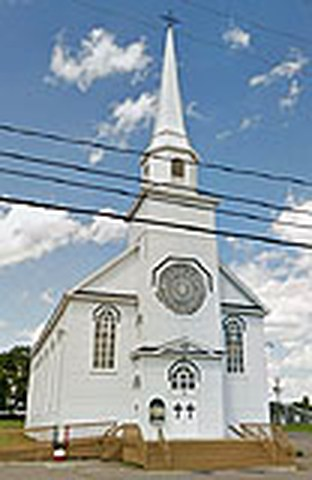
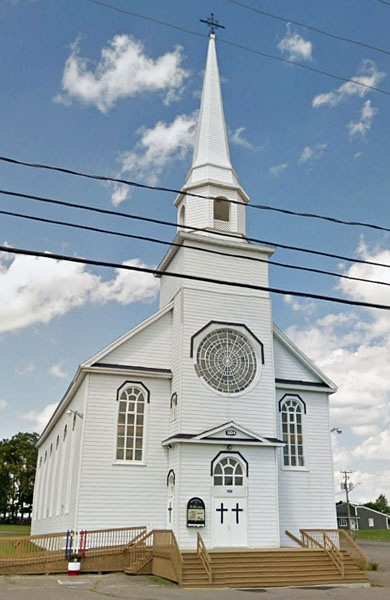
Add files via upload

diff --git a/index.html b/index.html
@@ -3020,18 +3020,18 @@ Object.assign(TR.en,{
 });
 
 const EGLISES=[
- {nom:"Assomption",img:"images/assomption-exterieur.jpg",
-  fr:"L'église de pierre de l'Assomption (1906-1907) et son presbytère sont au cœur de la vie de l'unité. La messe du vendredi, à 9h, y est célébrée en anglais.",
-  en:"The stone church of the Assumption (1906-1907) and its rectory are at the heart of the unit's life. Friday Mass, at 9 a.m., is celebrated there in English."},
- {nom:"Saint-Georges",img:"images/saint-georges.jpg",
-  fr:"La messe du mardi à 19h y est précédée du chapelet et de l'adoration dès 18h.",
-  en:"Tuesday Mass at 7 p.m. is preceded there by the rosary and adoration from 6 p.m."},
- {nom:"Saint-André",img:"images/saint-andre.jpg",
-  fr:"La messe du jeudi y est célébrée à 9h du matin.",
-  en:"Thursday Mass is celebrated there at 9 a.m."},
- {nom:"Saint-Michel",img:"images/saint-michel.jpg",maps:"https://maps.app.goo.gl/kdBrQagZrsqnxPfT7",
-  fr:"La messe du mercredi y est célébrée à 19h.",
-  en:"Wednesday Mass is celebrated there at 7 p.m."}
+ {nom:"Assomption",img:"images/assomption-exterieur.jpg",lien:"https://diocese-edmundston.ca/fr/zp_grand-sault_assomption.html",
+  fr:"Paroisse mère de la région, érigée en 1868 : après l'incendie de 1906, son église de pierre est rebâtie et ouverte en 1909. Paroisse bilingue, la messe du vendredi, à 9h, y est célébrée en anglais.",
+  en:"The mother parish of the region, erected in 1868: after the 1906 fire, its stone church was rebuilt and opened in 1909. A bilingual parish, Friday Mass at 9 a.m. is celebrated there in English."},
+ {nom:"Saint-Georges",img:"images/saint-georges.jpg",lien:"https://www.diocese-edmundston.ca/fr/zp_grand-sault_st-georges.html",
+  fr:"Érigée en 1950, la paroisse bénit son église de brique en 1953 ; une statue de saint Georges en marbre d'Italie veille sur le parvis. La messe du mardi à 19h y est précédée du chapelet et de l'adoration dès 18h.",
+  en:"Erected in 1950, the parish blessed its brick church in 1953; a marble statue of Saint George carved in Italy watches over the entrance. Tuesday Mass at 7 p.m. is preceded there by the rosary and adoration from 6 p.m."},
+ {nom:"Saint-André",img:"images/saint-andre.jpg",lien:"https://diocese-edmundston.ca/fr/zp_st-andre.html",
+  fr:"L'église de Saint-André (1904), au cœur des vallons, est célèbre pour sa rosace et son intérieur tout en blanc. La messe du jeudi y est célébrée à 9h.",
+  en:"The church of Saint-André (1904), nestled among the valleys, is famed for its rose window and its all-white interior. Thursday Mass is celebrated there at 9 a.m."},
+ {nom:"Saint-Michel",img:"images/saint-michel.jpg",maps:"https://maps.app.goo.gl/kdBrQagZrsqnxPfT7",lien:"https://diocese-edmundston.ca/fr/zp_drummond.html",
+  fr:"Érigée en 1890, la paroisse de Drummond bâtit son église actuelle en 1906-1908, au cœur de l'une des plus belles régions agricoles du Nouveau-Brunswick. La messe du mercredi y est célébrée à 19h.",
+  en:"Erected in 1890, the parish of Drummond built its present church in 1906-1908, in the heart of one of New Brunswick's finest farming regions. Wednesday Mass is celebrated there at 7 p.m."}
 ];
 
 function cartesEglises(){
@@ -3040,7 +3040,8 @@ function cartesEglises(){
       ?'<img src="'+e.img+'" alt="'+esc(e.nom)+'" loading="lazy">'
       :'<div class="eglise-ph">⛪<span>'+t("photo_avenir")+'</span></div>';
     const lien=e.maps?' <a href="'+e.maps+'" target="_blank" rel="noopener" style="font-size:.82rem">🗺 '+(lang()==="en"?"Directions":"Itinéraire")+'</a>':"";
-    return '<div class="eglise-carte">'+visuel+'<div class="eglise-corps"><strong>'+esc(e.nom)+'</strong><p>'+esc(lang()==="en"?e.en:e.fr)+lien+'</p></div></div>';
+    const lienDio=e.lien?' <a href="'+e.lien+'" target="_blank" rel="noopener" style="font-size:.82rem">🔗 '+(lang()==="en"?"Diocesan page":"Page diocésaine")+'</a>':"";
+    return '<div class="eglise-carte">'+visuel+'<div class="eglise-corps"><strong>'+esc(e.nom)+'</strong><p>'+esc(lang()==="en"?e.en:e.fr)+lien+lienDio+'</p></div></div>';
   }).join("");
 }
 
@@ -3073,7 +3074,8 @@ Object.assign(TR.fr,{
   feuillet_resume:"Le feuillet du dimanche : intentions de messe, annonces et vie de l'unité, préparé par l'équipe pastorale.",
   feuillet_maj:"Feuillet du",
   feuillet_vide:"Le feuillet de cette semaine n'est pas encore publié. L'équipe pastorale peut coller le texte du dimanche dans Paramètres.",
-  voir_feuillet:"Consulter le feuillet"
+  voir_feuillet:"Consulter le feuillet",
+  feuillet_diocese:"Le feuillet est aussi publié chaque semaine sur le site du diocèse (PDF)."
 });
 Object.assign(TR.en,{
   annonces_titre:"News and announcements",
@@ -3082,7 +3084,8 @@ Object.assign(TR.en,{
   feuillet_resume:"The Sunday bulletin: Mass intentions, announcements and life of the unit, prepared by the pastoral team.",
   feuillet_maj:"Bulletin of",
   feuillet_vide:"This week's bulletin has not been published yet. The pastoral team can paste the Sunday text in Settings.",
-  voir_feuillet:"Read the bulletin"
+  voir_feuillet:"Read the bulletin",
+  feuillet_diocese:"The bulletin is also published weekly on the diocesan website (PDF)."
 });
 
 function blocAnnonces(){
@@ -3103,7 +3106,8 @@ function viewFeuillet(){
     ?txt.split(/\n\s*\n/).map(par=>'<p>'+esc(par.trim()).replace(/\n/g,"<br>")+'</p>').join("")
     :'<div class="encart">'+t("feuillet_vide")+'</div>';
   return '<a class="retour" href="#/liturgie">'+t("retour_lit")+'</a>'
-    +'<div class="carte"><h2>📰 '+t("feuillet_titre")+'</h2>'+date+corps+'</div>';
+    +'<div class="carte"><h2>📰 '+t("feuillet_titre")+'</h2>'+date+corps
+    +'<p class="discret" style="margin-top:12px"><a href="https://diocese-edmundston.ca/fr/docs/feuillet_paroissial-notre-dame-du-sacre-coeur.pdf" target="_blank" rel="noopener">📄 '+t("feuillet_diocese")+'</a></p></div>';
 }
 
 /* Accueil : on insère le bloc Annonces entre l'urgence et Nos églises */
@@ -3300,9 +3304,15 @@ function blocAVenir(){
 const GALERIE_BASE=[
   {img:"images/assomption-exterieur.jpg",fr:"Église de l'Assomption — extérieur",en:"Church of the Assumption — exterior"},
   {img:"images/assomption-interieur.jpg",fr:"Église de l'Assomption — intérieur",en:"Church of the Assumption — interior"},
+  {img:"images/assomption-aerienne.jpg",fr:"Église de l'Assomption — vue aérienne (photo : diocèse d'Edmundston)",en:"Church of the Assumption — aerial view (photo: Diocese of Edmundston)"},
+  {img:"images/assomption-panorama.jpg",fr:"Église de l'Assomption — le sanctuaire, en français et en anglais (photo : diocèse d'Edmundston)",en:"Church of the Assumption — the sanctuary, in French and English (photo: Diocese of Edmundston)"},
   {img:"images/saint-georges.jpg",fr:"Église Saint-Georges",en:"Saint-Georges church"},
+  {img:"images/saint-georges-cote.jpg",fr:"Église Saint-Georges — vue latérale (photo : diocèse d'Edmundston)",en:"Saint-Georges church — side view (photo: Diocese of Edmundston)"},
   {img:"images/saint-andre.jpg",fr:"Église Saint-André",en:"Saint-André church"},
-  {img:"images/saint-michel.jpg",fr:"Église Saint-Michel",en:"Saint-Michel church"}
+  {img:"images/saint-andre-interieur.jpg",fr:"Église Saint-André — la nef (photo : diocèse d'Edmundston)",en:"Saint-André church — the nave (photo: Diocese of Edmundston)"},
+  {img:"images/saint-andre-rosace.jpg",fr:"Église Saint-André — la rosace (photo : diocèse d'Edmundston)",en:"Saint-André church — the rose window (photo: Diocese of Edmundston)"},
+  {img:"images/saint-michel.jpg",fr:"Église Saint-Michel",en:"Saint-Michel church"},
+  {img:"images/saint-michel-aerienne.jpg",fr:"Église Saint-Michel — vue aérienne (photo : diocèse d'Edmundston)",en:"Saint-Michel church — aerial view (photo: Diocese of Edmundston)"}
 ];
 function photosGalerie(){
   const extra=(params().galerie||"").split("\n").map(l=>l.trim()).filter(Boolean).map(l=>{
